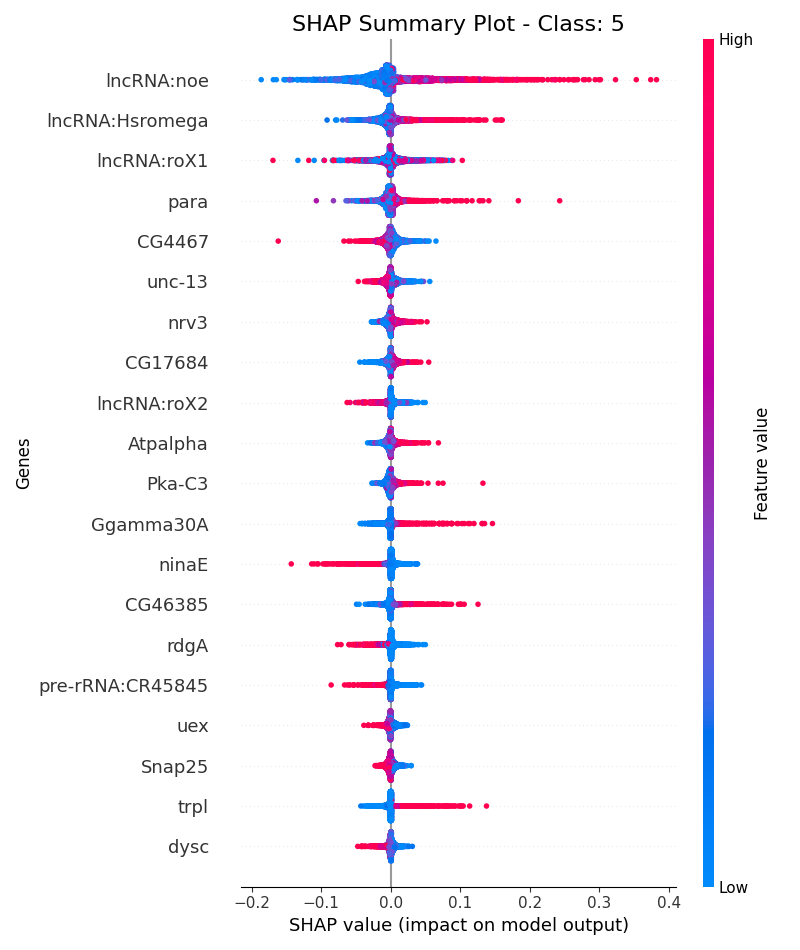
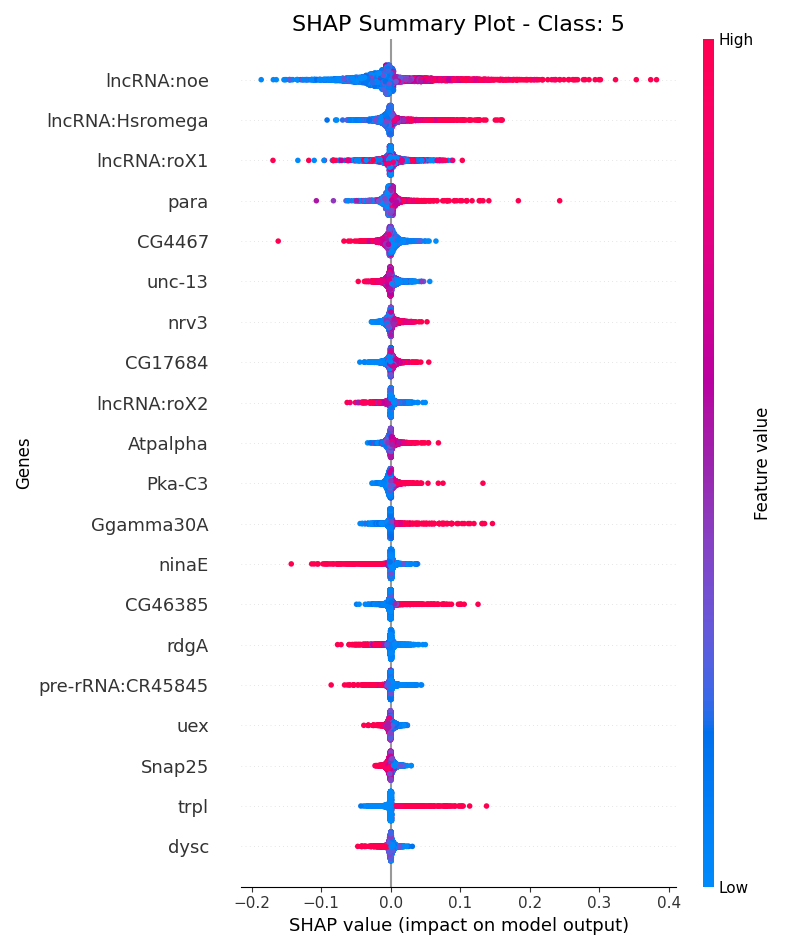
finished batch correction

diff --git a/Code/scvi_batch.py b/Code/scvi_batch.py
@@ -1,8 +1,8 @@
 import os
 import argparse
 import scanpy as sc
-import scvi
-import torch
+import scvi # type: ignore
+import torch # type: ignore
 import time
 import scib.metrics as sm
 import pandas as pd
@@ -176,33 +176,33 @@ class BatchCorrector:
         if batch_path is None:
             batch_path = os.path.join(self.base_dir, self.tissue, "batch_corrected", "fly_eval_batch.h5ad")
 
-        # 1 ─ Load data
+        # Load data
         adata_raw   = sc.read_h5ad(raw_path)
         adata_batch = sc.read_h5ad(batch_path)
 
-        # 2 ─ Build UMAP on raw log‑CP10K
+        # Build UMAP on raw log‑CP10K
         adata_raw.layers["counts"] = adata_raw.X.copy()
-        sc.pp.normalize_total(adata_raw, target_sum=1e4)   # ← normalize directly in .X
-        sc.pp.log1p(adata_raw)                             # ← log-transform directly in .X
-        adata_raw.layers["log1p_cp10k"] = adata_raw.X.copy()  # ← preserve explicitly
+        sc.pp.normalize_total(adata_raw, target_sum=1e4)   
+        sc.pp.log1p(adata_raw)                            
+        adata_raw.layers["log1p_cp10k"] = adata_raw.X.copy()  
         sc.pp.pca(adata_raw, n_comps=30)
         sc.pp.neighbors(adata_raw, n_pcs=30)
         sc.tl.umap(adata_raw, min_dist=0.3)
 
-        # 3 ─ Build UMAP on scVI latent
+        # Build UMAP on scVI latent
         sc.pp.neighbors(adata_batch, use_rep=self.SCVI_LATENT_KEY, n_neighbors=20)  
         sc.tl.umap(adata_batch, min_dist=0.3)
 
-        # 4 ─ Columns to plot
-        batch_col = self.batch_column          # "dataset"
+        # Columns to plot
+        batch_col = self.batch_column          
         bio_cols  = ["sex", "age"]
         all_cols  = [batch_col] + bio_cols
 
-        # Set Scanpy's figure output directory (relative to script location)
+        # Set Scanpy's figure output directory
         sc.settings.figdir = os.path.join("..", "Analysis", "UMAP")
         os.makedirs(sc.settings.figdir, exist_ok=True)
 
-        # 5 ─ Helper for per‑column PNGs
+        # Helper for per‑column PNGs
         def plot_umap(adata, cols, label, prefix):
             for c in cols:
                 if adata.obs[c].dtype.kind in "ifc":
@@ -218,7 +218,7 @@ class BatchCorrector:
                 )
                 plt.close()
 
-        # 6 ─ Raw per‑column plots
+        # Raw per‑column plots
         plot_umap(
             adata_raw,
             all_cols,
@@ -226,7 +226,7 @@ class BatchCorrector:
             prefix=f"{out_prefix}_uncorrected"
         )
 
-        # 7 ─ scVI per‑column plots
+        # scVI per‑column plots
         plot_umap(
             adata_batch,
             all_cols,
@@ -234,7 +234,7 @@ class BatchCorrector:
             prefix=f"{out_prefix}_scvi"
         )
 
-        # 8 one figure with dataset / sex / age side‑by‑side (scVI)
+        # figure with dataset / sex / age side‑by‑side (scVI)
         sc.pl.umap(
             adata_batch,
             color=all_cols,
@@ -244,6 +244,17 @@ class BatchCorrector:
             save=f"_{out_prefix}_scvi_all.png",
             show=False
         )
+
+        # figure with dataset / sex / age side‑by‑side (uncorrected)
+        sc.pl.umap(
+            adata_raw,
+            color=all_cols,
+            frameon=False,
+            ncols=3,
+            title=[f"scVI: {c}" for c in all_cols],
+            save=f"_{out_prefix}_uncorrected_all.png",
+            show=False
+        )
         plt.close()
 
         print(f"UMAPs saved (elapsed {time.time() - t0:.1f} s).")
@@ -251,8 +262,8 @@ class BatchCorrector:
 
     def evaluate_metrics(
         self,
-        raw_path=None,          # raw hold‑out
-        batch_path=None,  # same cells + scVI outputs
+        raw_path=None,         
+        batch_path=None,  
         out_csv=None,
     ):
         """
@@ -276,7 +287,7 @@ class BatchCorrector:
         adata_raw = sc.read_h5ad(raw_path)     # counts in .X
 
         # scIB expects raw counts in X for the "batch" view
-        adata_raw.layers["counts"] = adata_raw.X.copy()  # just in case
+        adata_raw.layers["counts"] = adata_raw.X.copy() 
         adata_int.obsm["X_int"] = adata_int.obsm["X_scVI"]
 
         # neighbours on the integrated embedding

diff --git a/Code/config.py b/Code/config.py
@@ -81,7 +81,7 @@ config_dict = {
     "FeatureImportanceAndVisualizations": {
         "run_visualization": True,       # Options: True, False
         "run_interpreter": True,        # Options: True, False (SHAP)
-        "load_SHAP": False,              # Options: True to load SHAP values, False to compute them, only works if run_interpreter is True
+        "load_SHAP": True,              # Options: True to load SHAP values, False to compute them, only works if run_interpreter is True
         "reference_size": 5000,          # Reference data size for SHAP
         "save_predictions": False,        # Options: True, False; (Model predictions csv file)
     },

diff --git a/Code/preprocess.py b/Code/preprocess.py
@@ -6,7 +6,7 @@ import numpy as np
 import scanpy as sc
 from sklearn.preprocessing import LabelEncoder, StandardScaler
 from sklearn.model_selection import train_test_split
-from tensorflow.keras.utils import to_categorical
+from tensorflow.keras.utils import to_categorical # type: ignore
 import dill as pickle
 import logging
 from utilities import (
